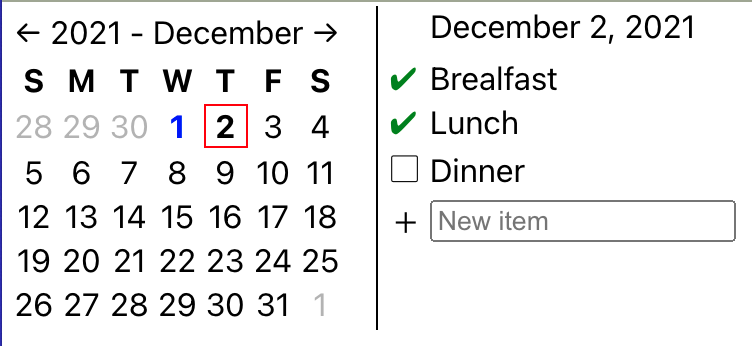
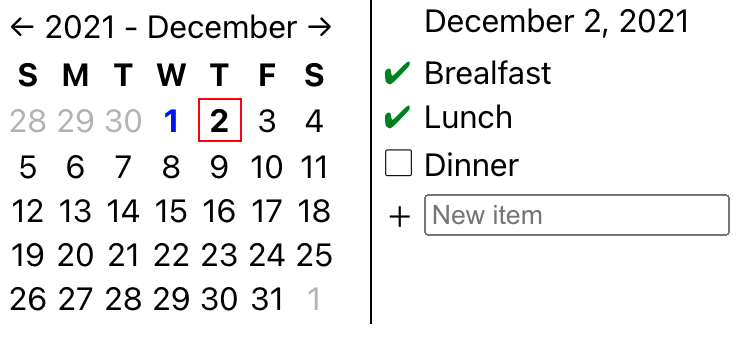
Documentation update

diff --git a/README.md b/README.md
@@ -1,7 +1,46 @@
-# Simple calendar/todo list in ReactJS
+# Simple calendar/Todo list in ReactJS
 
-Live demo
+[Live demo](https://kign.github.io/react-cal/)
 
+![Screenshot](https://github.com/kign/react-cal/blob/master/etc/Calendar.png?raw=true "Web UI Screenshot" )
 
+## Testing and deployment
 
+In the project directory, you can run:
 
+### `npm start`
+
+Runs the app in the development mode.\
+Open [http://localhost:3000](http://localhost:3000) to view it in the browser.
+
+The page will reload if you make edits.\
+You will also see any lint errors in the console.
+
+### `npm test`
+
+Launches the test runner in the interactive watch mode.\
+See the section about [running tests](https://facebook.github.io/create-react-app/docs/running-tests) for more information.
+
+### `npm run build`
+
+Builds the app for production to the `build` folder.\
+It correctly bundles React in production mode and optimizes the build for the best performance.
+
+The build is minified and the filenames include the hashes.\
+Your app is ready to be deployed!
+
+See the section about [deployment](https://facebook.github.io/create-react-app/docs/deployment) for more information.
+
+### `npm run eject`
+
+**Note: this is a one-way operation. Once you `eject`, you can’t go back!**
+
+If you aren’t satisfied with the build tool and configuration choices, you can `eject` at any time. This command will remove the single build dependency from your project.
+
+Instead, it will copy all the configuration files and the transitive dependencies (webpack, Babel, ESLint, etc) right into your project so you have full control over them. All of the commands except `eject` will still work, but they will point to the copied scripts so you can tweak them. At this point you’re on your own.
+
+You don’t have to ever use `eject`. The curated feature set is suitable for small and middle deployments, and you shouldn’t feel obligated to use this feature. However we understand that this tool wouldn’t be useful if you couldn’t customize it when you are ready for it.
+
+### `npm run deploy`
+
+Deploy to GitHub pages. See [documentation](https://create-react-app.dev/docs/deployment/#github-pages).
